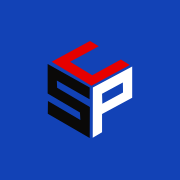
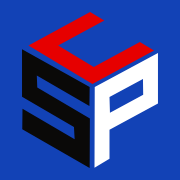
feat: ícone da aba redondo e maior; título da Home só "CubingSP"
- Favicon redondo com a logo ampliada (ocupa ~93% do ícone, antes ~54%):
  icon.svg (nítido em qualquer tamanho) + icon.png 512 px com fundo
  transparente; apple-icon 180 px quadrado (o iOS arredonda sozinho)
- Home com título absoluto "CubingSP"; as demais páginas seguem
  "Página | CubingSP"

Claude-Session: https://claude.ai/code/session_01HpAS3ezAQMegP3uaAUCrsg

Changed region(s): [[0.1111, 0.0556, 0.8889, 0.9444]]

diff --git a/src/app/[locale]/page.tsx b/src/app/[locale]/page.tsx
@@ -1,3 +1,4 @@
+import type { Metadata } from "next";
 import { setRequestLocale, getTranslations } from "next-intl/server";
 import { Link } from "@/i18n/routing";
 import { ImageSlot } from "@/components/ui/image-slot";
@@ -10,6 +11,9 @@ import { CompetitionCard } from "@/components/competitions/competition-card";
  * Pico de 50k acessos/dia ⇒ ~24 queries ao Supabase.
  */
 export const revalidate = 3600;
+
+// Título da aba na Home: só "CubingSP" (as outras páginas usam "Página | CubingSP")
+export const metadata: Metadata = { title: { absolute: "CubingSP" } };
 
 // Fotos da comunidade (galeria)
 const GALERIA = [3, 4, 5, 6];
